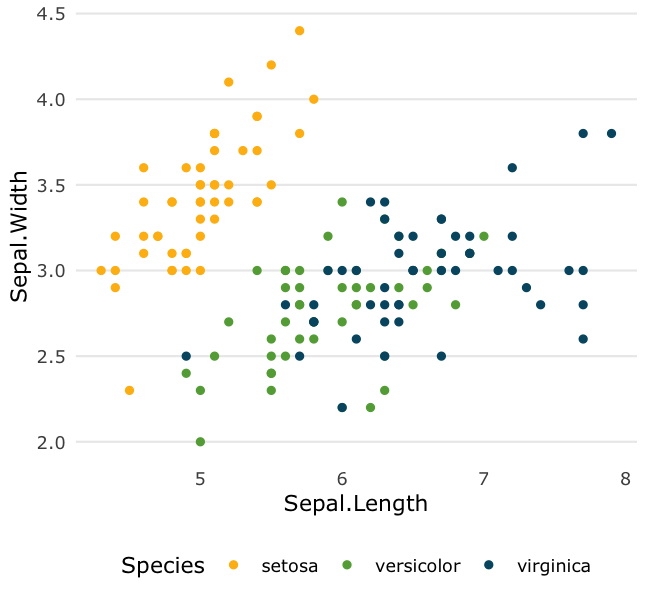
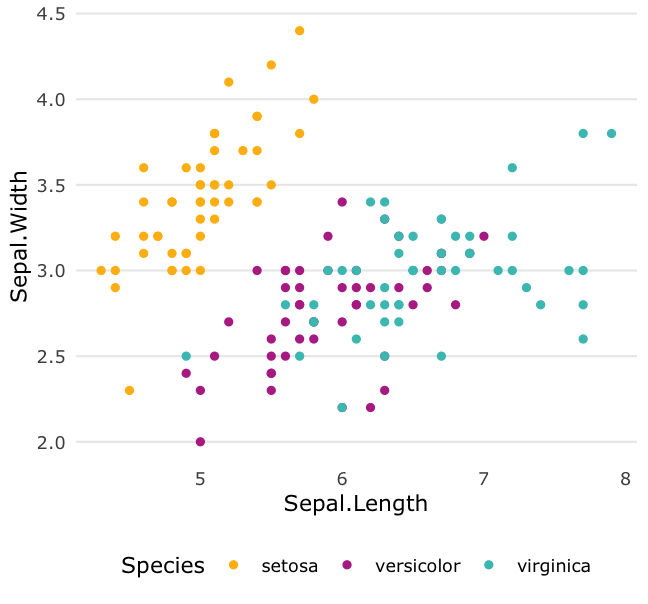
Update example to use updated theme.usq

diff --git a/inst/templates/usqtheme/skeleton/skeleton.html b/inst/templates/usqtheme/skeleton/skeleton.html
@@ -73,7 +73,7 @@ ggplot(iris, aes(x = Sepal.Length,
            y = Sepal.Width,
            color = Species)) +
   geom_point() +
-  scale_colour_usq() +
+  scale_colour_usq(discrete = TRUE) +
   theme_usq()
 ```
 ]
